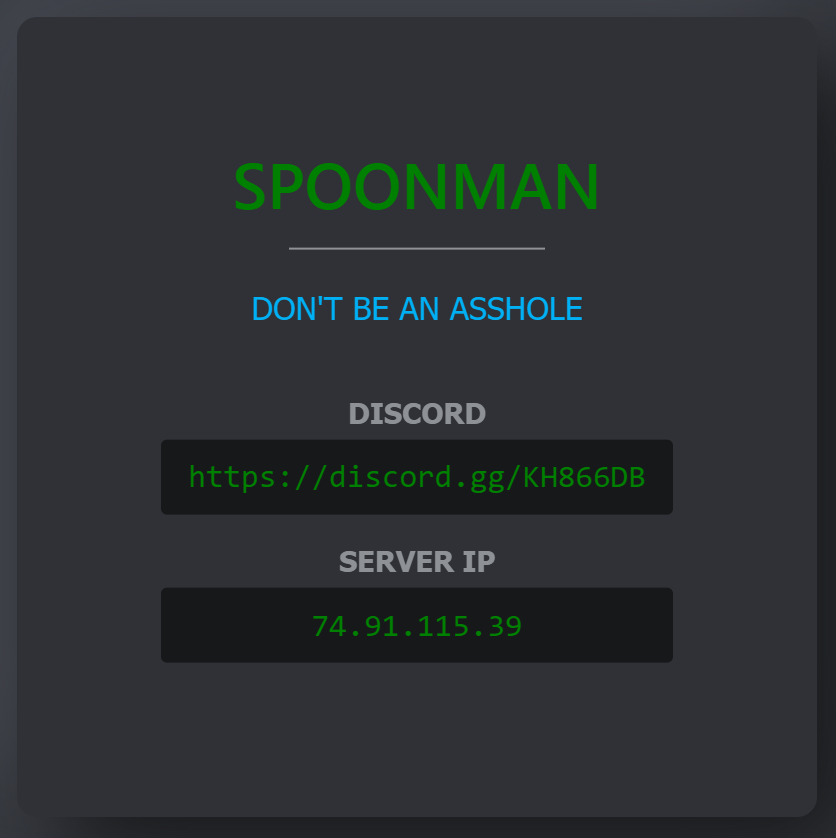
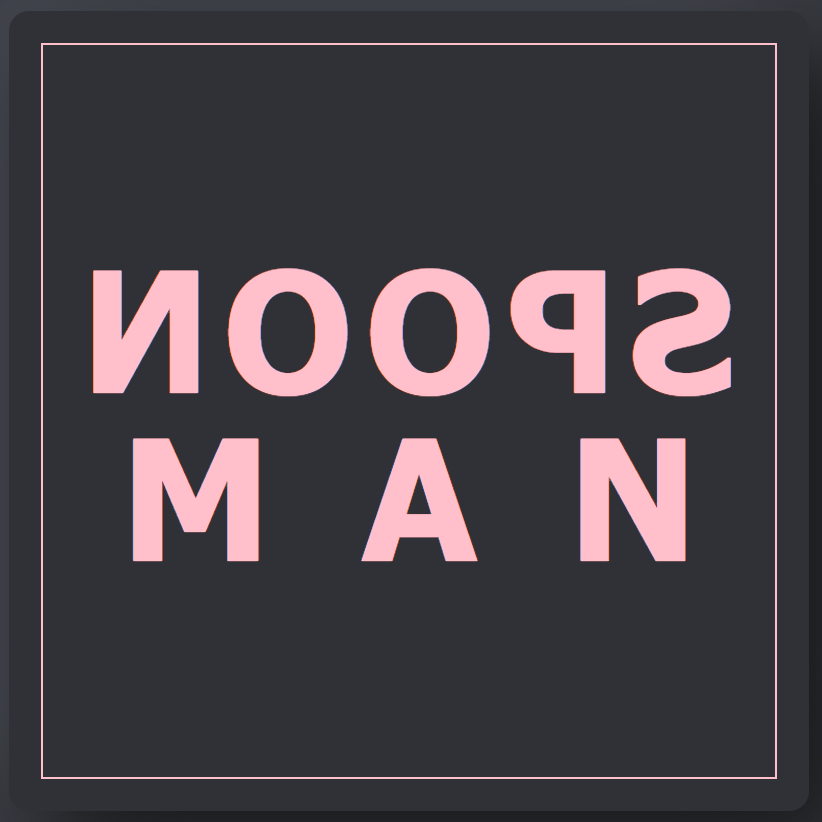
Update MOTD styles

Changed region(s): [[0.1521, 0.1825, 0.9124, 0.7908], [0.0912, 0.3041, 0.2433, 0.4866]]

diff --git a/src/pages/SpoonmanThumbnail.jsx b/src/pages/SpoonmanThumbnail.jsx
@@ -1,0 +1,118 @@
+import React from 'react';
+import styled from 'styled-components';
+
+const windowSize = {
+  height: 400,
+  width: 400,
+};
+
+/* eslint-disable sort-keys */
+const colors = {
+  brown: '#A52A2A',
+  darkBrown: '##661515',
+  darkBlue: '#7289DA',
+  darkBlueHover: '#677BC4',
+  gray: '#8e9297',
+  darkGray: '#2F3136',
+  darkerGray: '#17181a',
+  discordBlueLink: '#00B0F4',
+  green: '#008000',
+  darkGreen: '#005900',
+  darkerGreen: '#013301',
+  lightGray: '#36393F',
+  white: '#FFFFFF',
+};
+/* eslint-enable sort-keys */
+
+const Container = styled.div`
+  background-color: ${colors.lightGray};
+  font-family: Tahoma, Geneva, sans-serif;
+  font-size: 16px;
+  display: flex;
+  height: 100vh;
+  justify-content: center;
+  overflow-y: hidden;
+  position: relative;
+
+  *,
+  *:before,
+  *:after {
+    box-sizing: border-box;
+  }
+`;
+
+const InnerBox = styled.div`
+  background: ${colors.darkGray};
+  border-radius: 100%;
+  box-shadow: 20px 20px 47px ${colors.darkerGray}, -20px -20px 47px #474a52;
+  box-sizing: border-box;
+  color: ${colors.green};
+  height: ${windowSize.height}px;
+  opacity: 0;
+  padding: 1em;
+  position: relative;
+  width: ${windowSize.width}px;
+  top: 45%;
+  transition: opacity 0.2s ease;
+  transform: translateY(-50%);
+
+  *,
+  *:before,
+  *:after {
+    box-sizing: border-box;
+  }
+
+  &.isOpen {
+    opacity: 1;
+  }
+`;
+
+const ContentContainer = styled.div`
+  border: 1px solid pink;
+  border-radius: 100%;
+  display: flex;
+  flex-direction: column;
+  height: 100%;
+  line-height: 84px;
+  padding: 1rem;
+  place-content: center;
+  text-align: center;
+  width: 100%;
+`;
+
+const TitleThumbnail = styled.div`
+  color: pink;
+  display: flex;
+  font-size: 84px;
+  font-weight: 600;
+  justify-content: space-around;
+  text-transform: uppercase;
+
+  &.reversed {
+    filter: FlipH;
+    transform: scaleX(-1);
+  }
+`;
+
+const MOTD = () => {
+  return (
+    <Container>
+      <InnerBox className="isOpen">
+        <ContentContainer>
+          <TitleThumbnail className="reversed part--spoon">
+            {'Spoon'.split('').map((letter, index) => (
+              <span key={index}>{letter}</span>
+            ))}
+          </TitleThumbnail>
+          <TitleThumbnail className="part--man">
+            {'man'.split('').map((letter, index) => (
+              <span key={index}>{letter}</span>
+            ))}
+          </TitleThumbnail>
+        </ContentContainer>
+      </InnerBox>
+    </Container>
+  );
+};
+
+export default MOTD;

diff --git a/src/pages/Spoonman.jsx b/src/pages/Spoonman.jsx
@@ -9,11 +9,11 @@ const discordInviteLink = 'https://discord.gg/KH866DB';
 
 /* eslint-disable sort-keys */
 const unfurlData = {
-  name: 'Spoonman',
+  name: 'SPOONMAN | TF2',
   title: '[Chicago] Payload+',
-  description: 'Server IP: 74.91.115.39',
+  description: `Server IP: ${serverIP}\nDiscord: ${discordInviteLink}\n`,
   screenshot,
-  url: 'https://discord.gg/KH866DB',
+  url: 'https://shaneshame.github.io/Spoonman',
 };
 /* eslint-enable sort-keys */
 
@@ -36,6 +36,7 @@ const colors = {
   darkGreen: '#005900',
   darkerGreen: '#013301',
   lightGray: '#36393F',
+  pink: '#ffc0cb',
   white: '#FFFFFF',
 };
 /* eslint-enable sort-keys */
@@ -62,7 +63,7 @@ const InnerBox = styled.div`
   border-radius: 10px;
   box-shadow: 20px 20px 47px ${colors.darkerGray}, -20px -20px 47px #474a52;
   box-sizing: border-box;
-  color: ${colors.green};
+  color: ${colors.pink};
   height: ${windowSize.height}px;
   opacity: 0;
   padding: 1em;
@@ -92,22 +93,12 @@ const ContentContainer = styled.div`
 `;
 
 const Title = styled.h1`
-  border: none;
+  border: 1px solid ${colors.pink};
+  color: ${colors.pink};
   margin: 0;
   padding: 0.5em 0 0.5em 0;
   position: relative;
   text-transform: uppercase;
-
-  &::before {
-    background-color: ${colors.gray};
-    bottom: 0;
-    content: '';
-    height: 1px;
-    left: 50%;
-    position: absolute;
-    transform: translateX(-50%);
-    width: 50%;
-  }
 
   span {
     display: inline-block;
@@ -156,6 +147,10 @@ const Label = styled.label`
   font-size: 0.9rem;
   margin: 0.75rem 0;
   text-transform: uppercase;
+
+  &:first-of-type {
+    margin: 0;
+  }
 `;
 
 const MOTDUnfurlHeader = () => {
